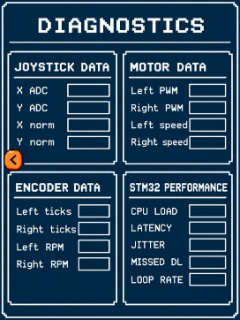
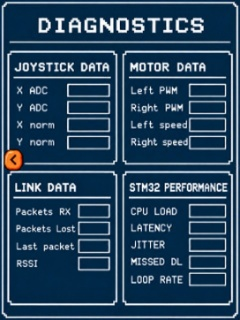
replaced the encoder shit with the stm32 other shit

diff --git a/esp32_transmitter/src/pretty_effect.c b/esp32_transmitter/src/pretty_effect.c
@@ -177,7 +177,7 @@ static void prepare_diag_ui_strings(void) {
     s_diag_texts[3].y0 = 138;
 
     // === 2. MOTOR DATA (Top Right: Box Center X = 207) ===
-    uint8_t spd = g_robot_status_received ? g_robot_status.speedSetting : metrics_get_speed_percent();
+    uint8_t spd = robot_packet_received ? robot_packet.speedSetting : metrics_get_speed_percent();
     // Line 1: Left PWM
     snprintf(s_diag_texts[4].str, sizeof(s_diag_texts[4].str), "%u%%", spd);
     s_diag_texts[4].len = strlen(s_diag_texts[4].str);
@@ -190,36 +190,66 @@ static void prepare_diag_ui_strings(void) {
     s_diag_texts[5].x0 = 207 - (s_diag_texts[5].len * 6) / 2;
     s_diag_texts[5].y0 = 104;
 
+    //num 3 - stm32 diagnotics shit.
+    //line 1: rssi - receiver signal strength indicator 
+    int8_t rssi = metrics_get_rssi();
+    snprintf(s_diag_texts[6].str, sizeof(s_diag_texts[6].str), "%d dBm", rssi);
+    s_diag_texts[6].len = strlen(s_diag_texts[6].str);
+    s_diag_texts[6].x0 = 94 - (s_diag_texts[6].len * 6) / 2;
+    s_diag_texts[6].y0 = 207;
+
+    //line 2 packet loss in percentages of the packets loss from the receiver to the stm32
+    float loss = metrics_get_packet_loss_pct();
+    snprintf(s_diag_texts[7].str, sizeof(s_diag_texts[7].str), "%.1f%%", loss);
+    s_diag_texts[7].len = strlen(s_diag_texts[7].str);
+    s_diag_texts[7].x0 = 94 - (s_diag_texts[7].len * 6) / 2;
+    s_diag_texts[7].y0 = 224;
+
+
+    //line 3 - packets received form the stm32
+    uint32_t rx_pkts = metrics_get_rx_count();
+    snprintf(s_diag_texts[8].str, sizeof(s_diag_texts[8].str), "%lu", (unsigned long)rx_pkts);
+    s_diag_texts[8].len = strlen(s_diag_texts[8].str);
+    s_diag_texts[8].x0 = 94 - (s_diag_texts[8].len * 6) / 2;
+    s_diag_texts[8].y0 = 242;
+
+    //line 4 - last packet transmitted (ms)
+    uint32_t tx_ms_ago = metrics_get_last_tx_ms_ago();
+    snprintf(s_diag_texts[9].str, sizeof(s_diag_texts[9].str), "%lums", (unsigned long)tx_ms_ago);
+    s_diag_texts[9].len = strlen(s_diag_texts[9].str);
+    s_diag_texts[9].x0 = 94 - (s_diag_texts[9].len * 6) / 2;
+    s_diag_texts[9].y0 = 260;
+
     // === 4. STM32 PERFORMANCE (Bottom Right: Box Center X = 207) ===
-    unsigned int cpu = g_robot_status_received ? g_robot_status.cpuLoad : 0;
+    unsigned int cpu = robot_packet_received ? robot_packet.cpuLoad : 0;
     // Line 1: CPU LOAD
     snprintf(s_diag_texts[12].str, sizeof(s_diag_texts[12].str), "%u%%", cpu);
     s_diag_texts[12].len = strlen(s_diag_texts[12].str);
     s_diag_texts[12].x0 = 207 - (s_diag_texts[12].len * 6) / 2;
     s_diag_texts[12].y0 = 207;
 
-    float lat = g_robot_status_received ? g_robot_status.latencyMs : 0.0f;
+    float lat = robot_packet_received ? robot_packet.latencyMs : 0.0f;
     // Line 2: LATENCY
     snprintf(s_diag_texts[13].str, sizeof(s_diag_texts[13].str), "%.1f", lat);
     s_diag_texts[13].len = strlen(s_diag_texts[13].str);
     s_diag_texts[13].x0 = 207 - (s_diag_texts[13].len * 6) / 2;
     s_diag_texts[13].y0 = 224;
 
-    float jit = g_robot_status_received ? g_robot_status.jitterMs : 0.0f;
+    float jit = robot_packet_received ? robot_packet.jitterMs : 0.0f;
     // Line 3: JITTER
     snprintf(s_diag_texts[14].str, sizeof(s_diag_texts[14].str), "%.1f", jit);
     s_diag_texts[14].len = strlen(s_diag_texts[14].str);
     s_diag_texts[14].x0 = 207 - (s_diag_texts[14].len * 6) / 2;
     s_diag_texts[14].y0 = 241;
 
-    unsigned int mdl = g_robot_status_received ? g_robot_status.missedDeadlines : 0;
+    unsigned int mdl = robot_packet_received ? robot_packet.missedDeadlines : 0;
     // Line 4: MISSED DL
     snprintf(s_diag_texts[15].str, sizeof(s_diag_texts[15].str), "%u", mdl);
     s_diag_texts[15].len = strlen(s_diag_texts[15].str);
     s_diag_texts[15].x0 = 207 - (s_diag_texts[15].len * 6) / 2;
     s_diag_texts[15].y0 = 258;
 
-    float hz = g_robot_status_received ? g_robot_status.controlRate : 0.0f;
+    float hz = robot_packet_received ? robot_packet.controlRate : 0.0f;
     // Line 5: LOOP RATE
     snprintf(s_diag_texts[16].str, sizeof(s_diag_texts[16].str), "%.1f", hz);
     s_diag_texts[16].len = strlen(s_diag_texts[16].str);

diff --git a/esp32_transmitter/src/metrics.c b/esp32_transmitter/src/metrics.c
@@ -20,10 +20,52 @@ static volatile float    s_jitter_ms = 0.2f;
 static volatile float    s_control_rate_hz = 100.0f;
 static volatile uint32_t s_missed_deadlines = 0;
 
+//adding variables for the stm32 send back part
+static volatile int8_t s_last_rssi = 0;
+static volatile uint32_t s_tx_success_count = 0;
+static volatile uint32_t s_tx_fail_count = 0;
+static volatile uint32_t s_rx_packet_count = 0;
+static volatile uint32_t s_last_tx_timestamp_ms = 0;
+
+
 static float   s_prev_latency_ms = 1.2f;
 static int64_t s_active_time_accum = 0;
 static int64_t s_total_time_accum = 0;
 static uint32_t s_sample_count = 0;
+
+
+//functions for the rssi which stands for receiver signal strength indicator
+int8_t metrics_get_rssi(void) {
+    //just return the rssi from the stm32
+    return s_last_rssi;
+}
+
+uint32_t metrics_get_rx_count(void){
+    //just regurn the rx_packet_count
+    return s_rx_packet_count;
+}
+
+
+uint32_t metrics_get_last_tx_ms_ago(void) {
+    //if the last time stamp was zero then just keep it to zero.
+    if (s_last_tx_timestamp_ms == 0) {
+        return 0;
+    }
+    else {
+        return pdTICKS_TO_MS(xTaskGetTickCount()) - s_last_tx_timestamp_ms;
+    }
+}
+
+
+float metrics_get_packet_loss_pct(void) {
+    uint32_t total = s_tx_success_count + s_tx_fail_count;
+    if (total == 0) {
+        return 0.0f;
+    }
+    return ((float)s_tx_fail_count * 100.0f) / (float)total;
+    
+
+}
 
 // 1. Direction from Joystick X/Y deflection
 const char* metrics_get_direction_str(void) {
@@ -140,13 +182,23 @@ void metrics_record_loop_end(void) {
 
 void metrics_record_espnow_tx_start(void) {
     s_tx_start_time = esp_timer_get_time();
+    s_last_tx_timestamp_ms = pdTICKS_TO_MS(xTaskGetTickCount());
 }
+
 
 void metrics_record_espnow_tx_done(esp_now_send_status_t status) {
     if (s_tx_start_time <= 0) return;
     int64_t now = esp_timer_get_time();
     int64_t duration_us = now - s_tx_start_time;
     s_tx_start_time = 0;
+
+    if (status == ESP_NOW_SEND_SUCCESS) {
+        s_tx_success_count++;
+    }
+    else {
+        s_tx_fail_count++;
+    }
+
 
     if (duration_us > 0 && duration_us < 100000) {
         float instant_ms = (float)duration_us / 1000.0f;
@@ -157,4 +209,9 @@ void metrics_record_espnow_tx_done(esp_now_send_status_t status) {
         s_jitter_ms += (delta - s_jitter_ms) * 0.125f;
         s_latency_ms = s_latency_ms * 0.85f + instant_ms * 0.15f;
     }
+}
+
+void metrics_record_espnow_rx(int8_t rssi) {
+    s_last_rssi = rssi;
+    s_rx_packet_count++;
 }

diff --git a/esp32_transmitter/src/setup.c b/esp32_transmitter/src/setup.c
@@ -24,8 +24,8 @@ uint8_t receiver_mac[ESP_NOW_ETH_ALEN] = {0xAC, 0x27, 0x6E, 0xA2, 0x87, 0x5C};
 #include "transmit_data.h"
 
 extern uint32_t last_time_rx; //extern means the variable actually exists from another .c file.
-robot_status_t g_robot_status = {0};
-bool g_robot_status_received = false;
+robot_status_t robot_packet = {0};
+bool robot_packet_received = false;
 
 //function to send data
 static void OnDataSent(const esp_now_send_info_t *tx_info, esp_now_send_status_t status) {
@@ -40,14 +40,21 @@ static void OnDataSent(const esp_now_send_info_t *tx_info, esp_now_send_status_t
 static void OnDataRecv(const esp_now_recv_info_t *esp_now_info, const uint8_t *data, int data_len) {
   //if we got the length of the packet back from the stm32
   if (data_len == sizeof(robot_status_t)) {
-    memcpy(&g_robot_status, data, sizeof(robot_status_t));
-    g_robot_status_received = true;
+    memcpy(&robot_packet, data, sizeof(robot_status_t));
+    robot_packet_received = true;
     //update the last time we received the packet
     last_time_rx = pdTICKS_TO_MS(xTaskGetTickCount());
 
+    //record incoming rssi and packet count
+    int8_t rssi = (esp_now_info && esp_now_info->rx_ctrl) ? esp_now_info->rx_ctrl->rssi : 0;
+    metrics_record_espnow_rx(rssi);
+
+    ESP_LOGI(TAG, "Telemetery RX OK! CPU: %u%%, Latency: %.1fms, RSSI: %d dBm",
+             robot_packet.cpuLoad, robot_packet.latencyMs, rssi);
+  } else {
+    ESP_LOGW(TAG, "Telemetry size mismatch! Got %d bytes, expected %u bytes",
+             data_len, (unsigned int)sizeof(robot_status_t));
   }
-  
-  
 }
 
 void init_esp_nvs(void) {

diff --git a/esp32_transmitter/include/metrics.h b/esp32_transmitter/include/metrics.h
@@ -11,7 +11,6 @@ extern "C" {
 //metric functions
 uint8_t     metrics_get_speed_percent(void);
 const char* metrics_get_direction_str(void);
-const char* metrics_get_actual_speed_str(void);
 int16_t     metrics_get_joy_x_val(void);
 int16_t     metrics_get_joy_y_val(void);
 float       metrics_get_cpu_load(void);        // CPU % (e.g. 12.4%)
@@ -25,6 +24,18 @@ void metrics_record_loop_start(void);
 void metrics_record_loop_end(void);
 void metrics_record_espnow_tx_start(void);
 void metrics_record_espnow_tx_done(esp_now_send_status_t status);
+
+
+//functions for the stm32 shit
+int8_t metrics_get_rssi(void);
+float metrics_get_packet_loss_pct(void);
+
+uint32_t metrics_get_rx_count(void);
+uint32_t metrics_get_last_tx_ms_ago(void);
+
+void metrics_record_espnow_rx_start(void);
+void metrics_record_espnow_rx_end(void);
+void metrics_record_espnow_rx(int8_t rssi);
 
 
 

diff --git a/esp32_transmitter/include/transmit_data.h b/esp32_transmitter/include/transmit_data.h
@@ -3,6 +3,7 @@
 
 #include <stdint.h>
 #include "esp_now.h"
+#include <stdbool.h>
 
 #define MENU_MODE 0 
 #define MANUAL_MODE 1
@@ -37,8 +38,8 @@ typedef struct __attribute__((packed)) {
     float   jitterMs;
     uint16_t missedDeadlines;
 } robot_status_t;
-extern robot_status_t g_robot_status;
-extern bool g_robot_status_received;
+extern robot_status_t robot_packet;
+extern bool robot_packet_received;
 
 
 //everytime you want to add a page, just add it here.
